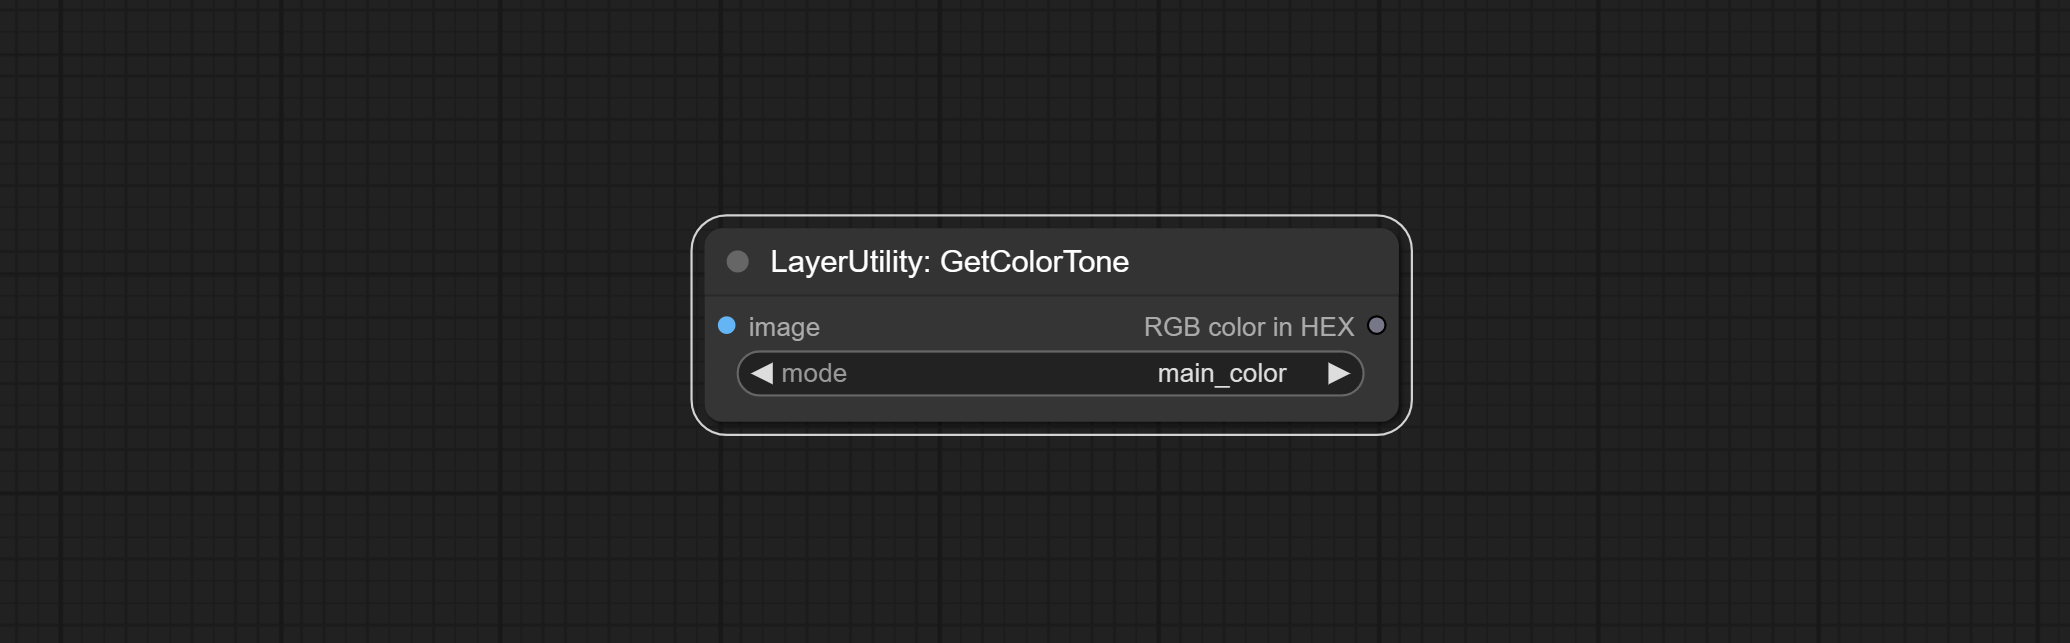
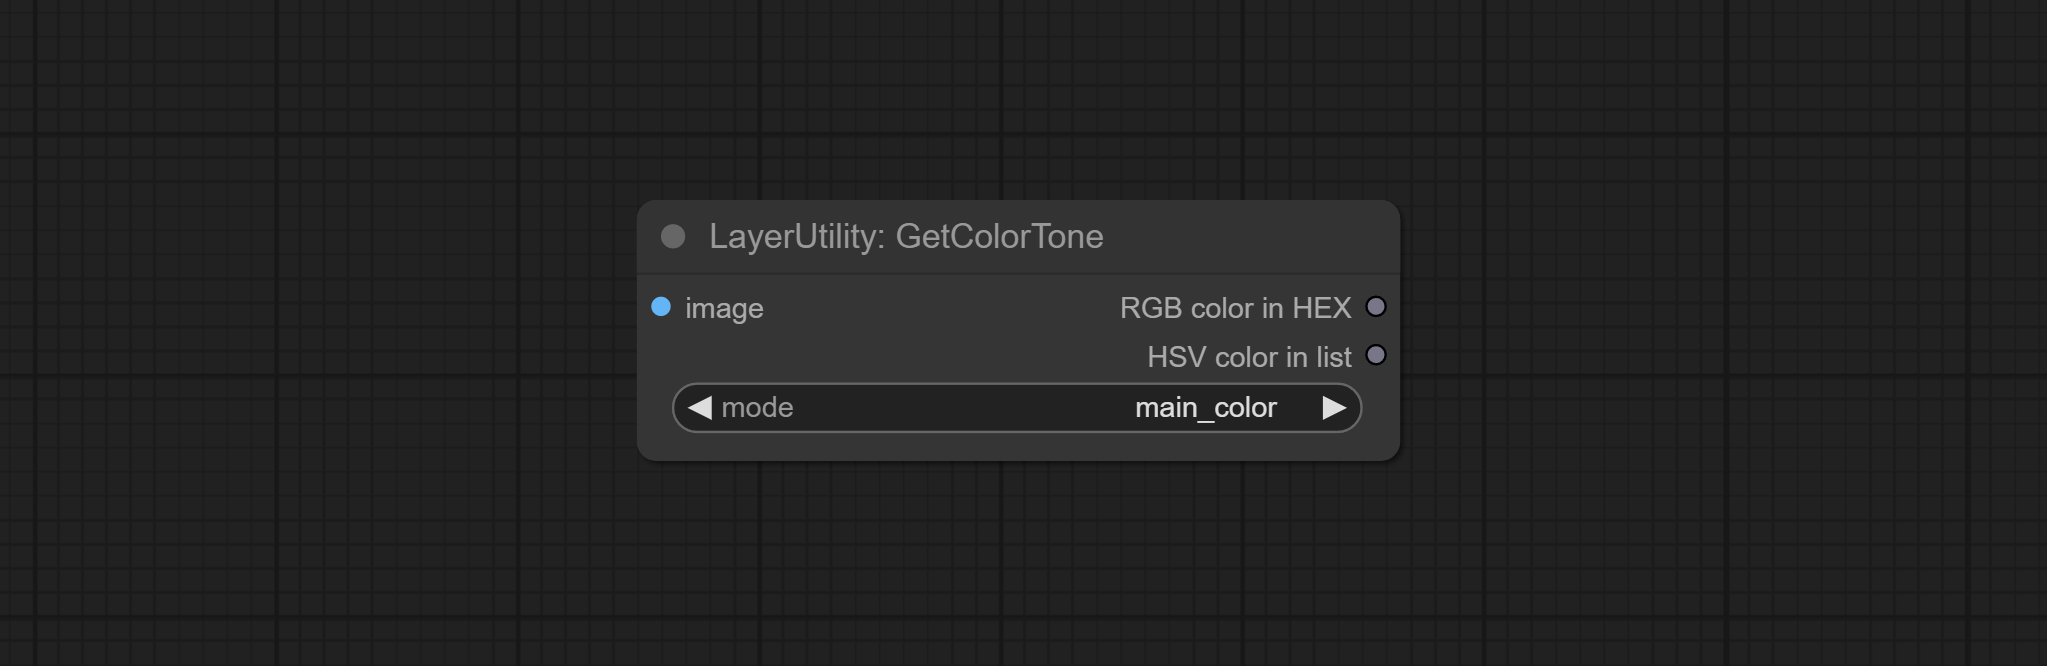
update readme

Changed region(s): [[0.3078, 0.311, 0.6771, 0.6843]]

diff --git a/README.MD b/README.MD
@@ -1,5 +1,5 @@
 # ComfyUI Layer Style
-A set of nodes for ComfyUI that generate image like Adobe Photoshop's Layer Style.
+A set of nodes for ComfyUI that can composite layer and mask to achieve Photoshop like functionality.
 
 ![image](image/title.png)
 
@@ -13,8 +13,8 @@ Nodes are divided into four groups according to their functions: LayerStyle, Lay
 [中文说明点这里](./README_CN.MD)
 
 ## Update
-* Add new types of [blend mode](#blend) between images. now supports up to 19 hybrid modes. add **color_burn, color_dodge, linear_burn, linear_dodge, overlay, soft_light, hard_light, vivid_light, pin_light, linear_light** and **hard_mix**. 
-The newly added hybrid mode is applicable to all nodes that support hybrid mode.
+* Add new types of [blend mode](#blend) between images. now supports up to 19 blend modes. add **color_burn, color_dodge, linear_burn, linear_dodge, overlay, soft_light, hard_light, vivid_light, pin_light, linear_light** and **hard_mix**. 
+The newly added blend mode is applicable to all nodes that support blend mode.
 * Commit [ColorMap](#ColorMap) filter node to create a pseudo color heatmap effect.
 * Commit [WaterColor](#WaterColor) and [SkinBeauty](#SkinBeauty) nodes。These are image filters that generate watercolor and skin smoothness effects.
 * Commit [ImageShift](#ImageShift)  node to shift the image and output a displacement seam mask, making it convenient to create continuous textures.
@@ -515,7 +515,7 @@ Node options:
 * mode： The output format is available in hexadecimal (HEX) and decimal (DEC).  
 
 Output type: 
-* string
+* value: String format.
 
 ### <a id="table1">GetColorTone</a>
 Obtain the main color or average color from the image and output RGB values.
@@ -526,7 +526,8 @@ Node options:
 * mode： There are two modes to choose from, with the main color and average color.
 
 Output type:
-* string
+* RGB color in HEX: The RGB color described by hexadecimal RGB format, like '#FA3D86'.
+* HSV color in list: The HSV color described by python's list data format.
 
 ### <a id="table1">ExtendCanvas</a>
 Extend the canvas
